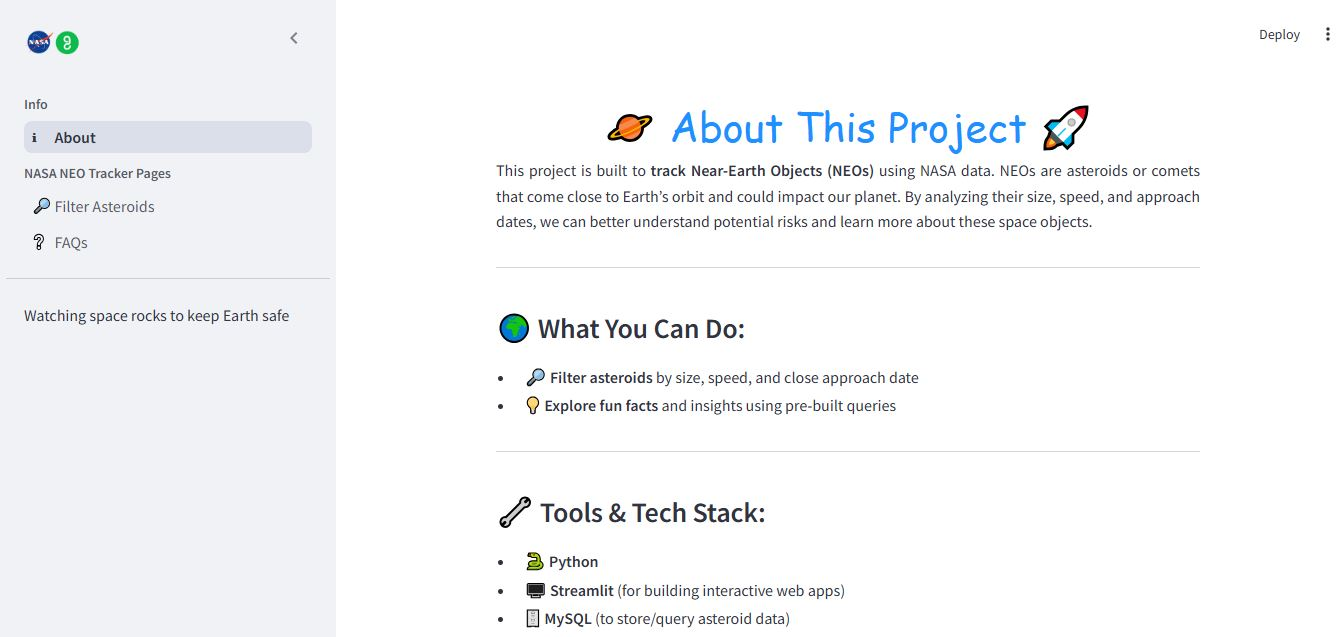
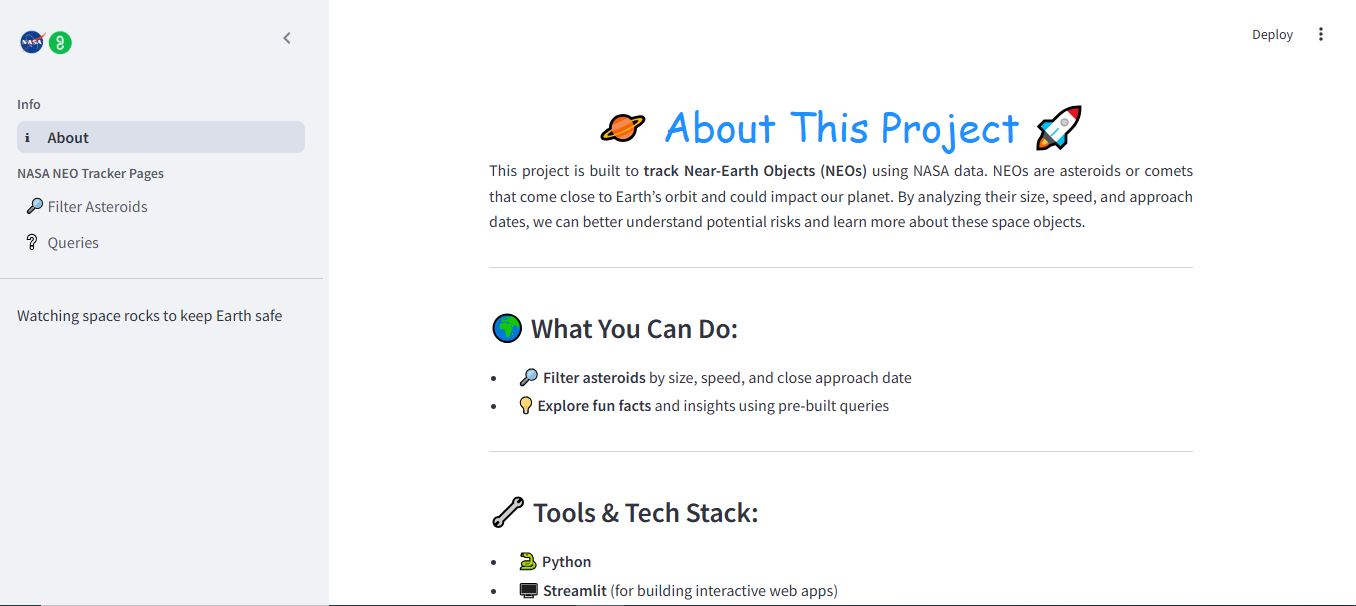
final commit - after final review

diff --git a/pages/faq.py b/pages/faq.py
@@ -26,7 +26,7 @@ st.markdown(
         text-align: center;
     }
     </style>
-    <div class="custom-title">Frequently Asked Questions</div>
+    <div class="custom-title">Explore Queries</div>
     """,
     unsafe_allow_html=True
 )

diff --git a/app.py b/app.py
@@ -22,7 +22,7 @@ filter_page = st.Page(
 
 query_page = st.Page(
     page="pages/faq.py",
-    title="FAQs",
+    title="Queries",
     icon="❔"
 )
 
